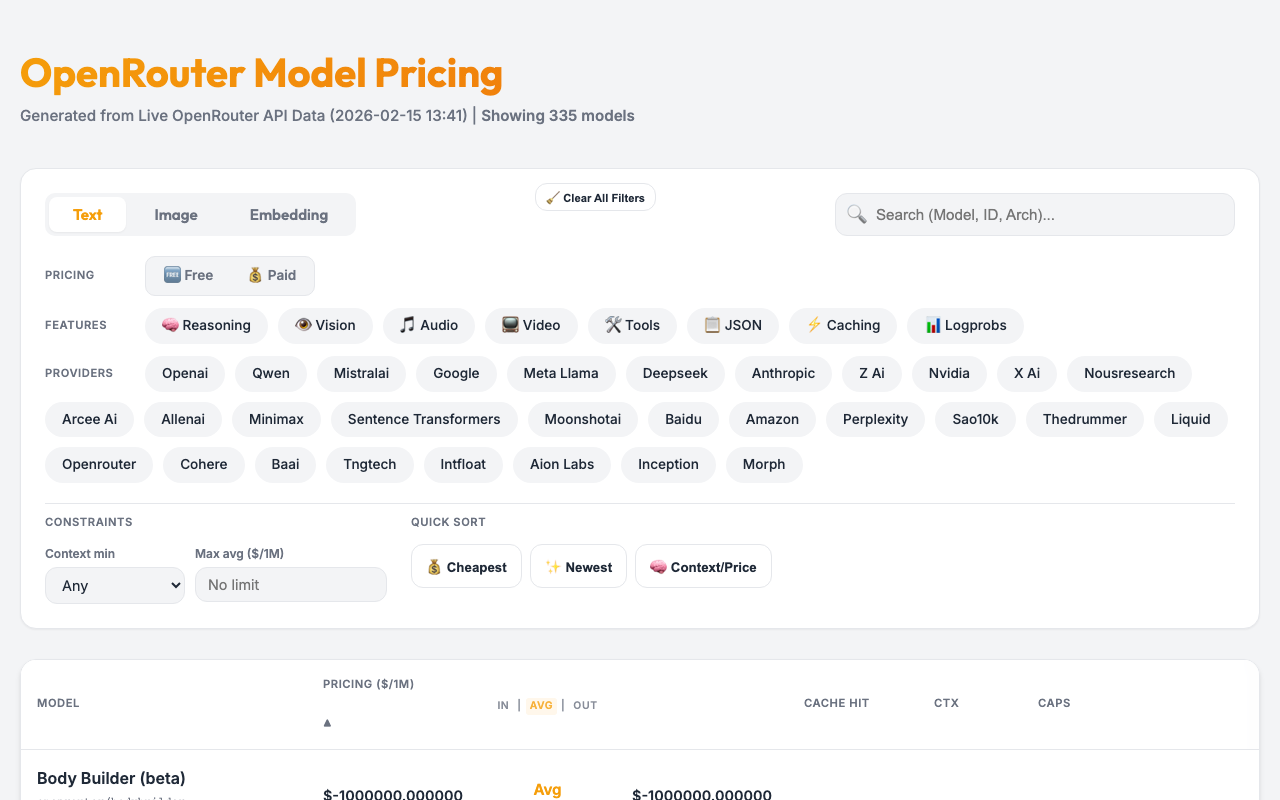
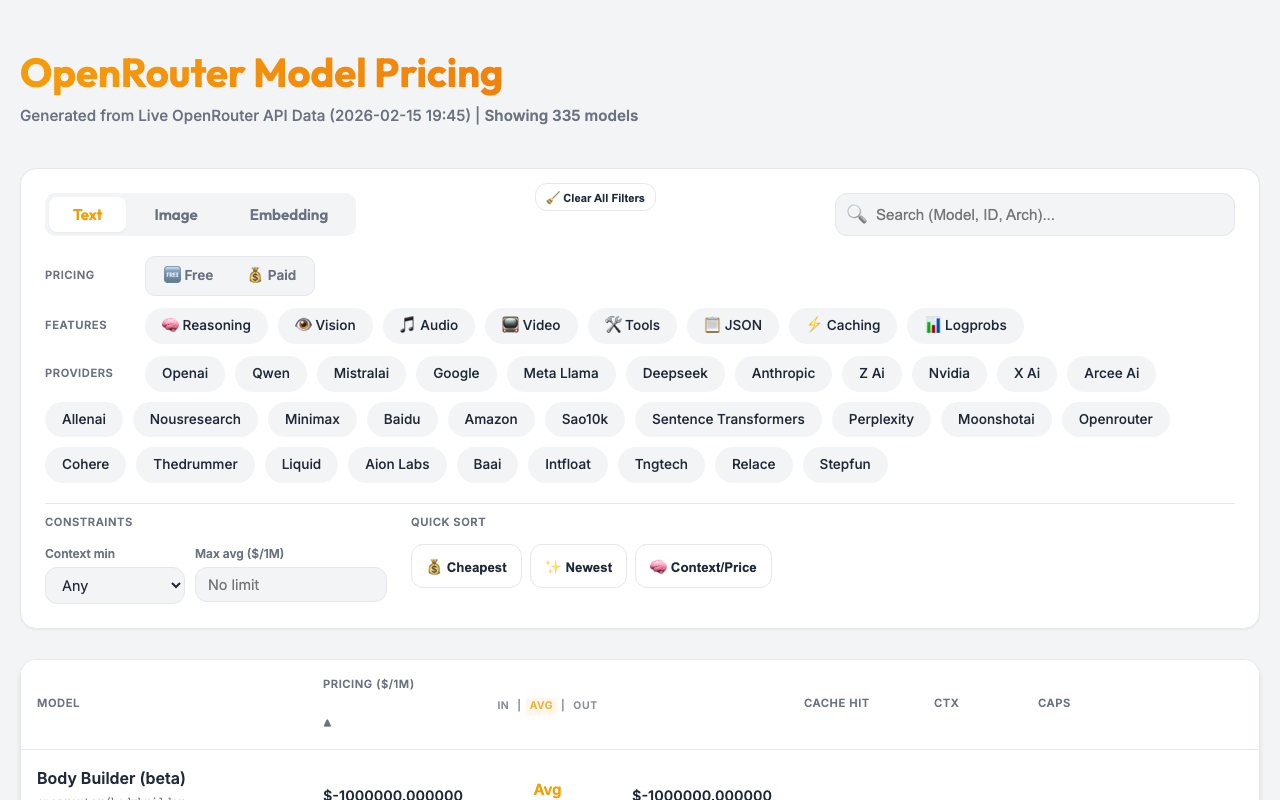
chore: automated pricing update (2026-02-15 19:45:49)
🔄 Changed Models (1): z-ai/glm-5

diff --git a/docs/index.html b/docs/index.html
@@ -634,7 +634,7 @@
     <div class="container">
         <header>
             <h1>OpenRouter Model Pricing</h1>
-            <div class="meta">Generated from Live OpenRouter API Data (2026-02-15 13:41)</div>
+            <div class="meta">Generated from Live OpenRouter API Data (2026-02-15 19:45)</div>
         </header>
 
         <div class="controls">
@@ -760,7 +760,7 @@
       "name": "Z.ai: GLM 5",
       "created": 1770829182,
       "description": "GLM-5 is Z.ai\u2019s flagship open-source foundation model engineered for complex systems design and long-horizon agent workflows. Built for expert developers, it delivers production-grade performance on large-scale programming tasks, rivaling leading closed-source models. With advanced agentic planning, deep backend reasoning, and iterative self-correction, GLM-5 moves beyond code generation to full-system construction and autonomous execution.",
-      "context_length": 202752,
+      "context_length": 204800,
       "architecture": {
         "modality": "text->text",
         "input_modalities": [
@@ -773,12 +773,11 @@
         "instruct_type": null
       },
       "pricing": {
-        "prompt": "0.0000008",
-        "completion": "0.00000256",
-        "input_cache_read": "0.00000016"
+        "prompt": "0.00000075",
+        "completion": "0.00000255"
       },
       "top_provider": {
-        "context_length": 202752,
+        "context_length": 204800,
         "max_completion_tokens": 131072,
         "is_moderated": false
       },
@@ -18259,7 +18258,7 @@
   ],
   "other": []
 };
-        window.providerOptions = ['openai', 'qwen', 'mistralai', 'google', 'meta-llama', 'deepseek', 'anthropic', 'z-ai', 'nvidia', 'x-ai', 'nousresearch', 'arcee-ai', 'allenai', 'minimax', 'sentence-transformers', 'moonshotai', 'baidu', 'amazon', 'perplexity', 'sao10k', 'thedrummer', 'liquid', 'openrouter', 'cohere', 'baai', 'tngtech', 'intfloat', 'aion-labs', 'inception', 'morph', 'microsoft', 'relace', 'neversleep', 'thenlper', 'inflection', 'stepfun', 'bytedance-seed', 'xiaomi', 'ibm-granite', 'bytedance', 'writer', 'alpindale', 'opengvlab', 'cognitivecomputations', 'meituan', 'prime-intellect', 'undi95', 'ai21', 'tencent', 'upstage', 'alfredpros', 'switchpoint', 'raifle', 'deepcogito', 'nex-agi', 'gryphe', 'eleutherai', 'anthracite-org', 'essentialai', 'kwaipilot', 'mancer', 'alibaba'];
+        window.providerOptions = ['openai', 'qwen', 'mistralai', 'google', 'meta-llama', 'deepseek', 'anthropic', 'z-ai', 'nvidia', 'x-ai', 'arcee-ai', 'allenai', 'nousresearch', 'minimax', 'baidu', 'amazon', 'sao10k', 'sentence-transformers', 'perplexity', 'moonshotai', 'openrouter', 'cohere', 'thedrummer', 'liquid', 'aion-labs', 'baai', 'intfloat', 'tngtech', 'relace', 'stepfun', 'microsoft', 'thenlper', 'inception', 'neversleep', 'morph', 'inflection', 'bytedance-seed', 'meituan', 'gryphe', 'alfredpros', 'cognitivecomputations', 'ibm-granite', 'ai21', 'tencent', 'raifle', 'xiaomi', 'kwaipilot', 'mancer', 'essentialai', 'deepcogito', 'switchpoint', 'prime-intellect', 'bytedance', 'undi95', 'nex-agi', 'alibaba', 'eleutherai', 'anthracite-org', 'alpindale', 'upstage', 'writer', 'opengvlab'];
         let currentTab = 'text';
         let sortKey = 'price_avg';
         let sortAsc = true;
